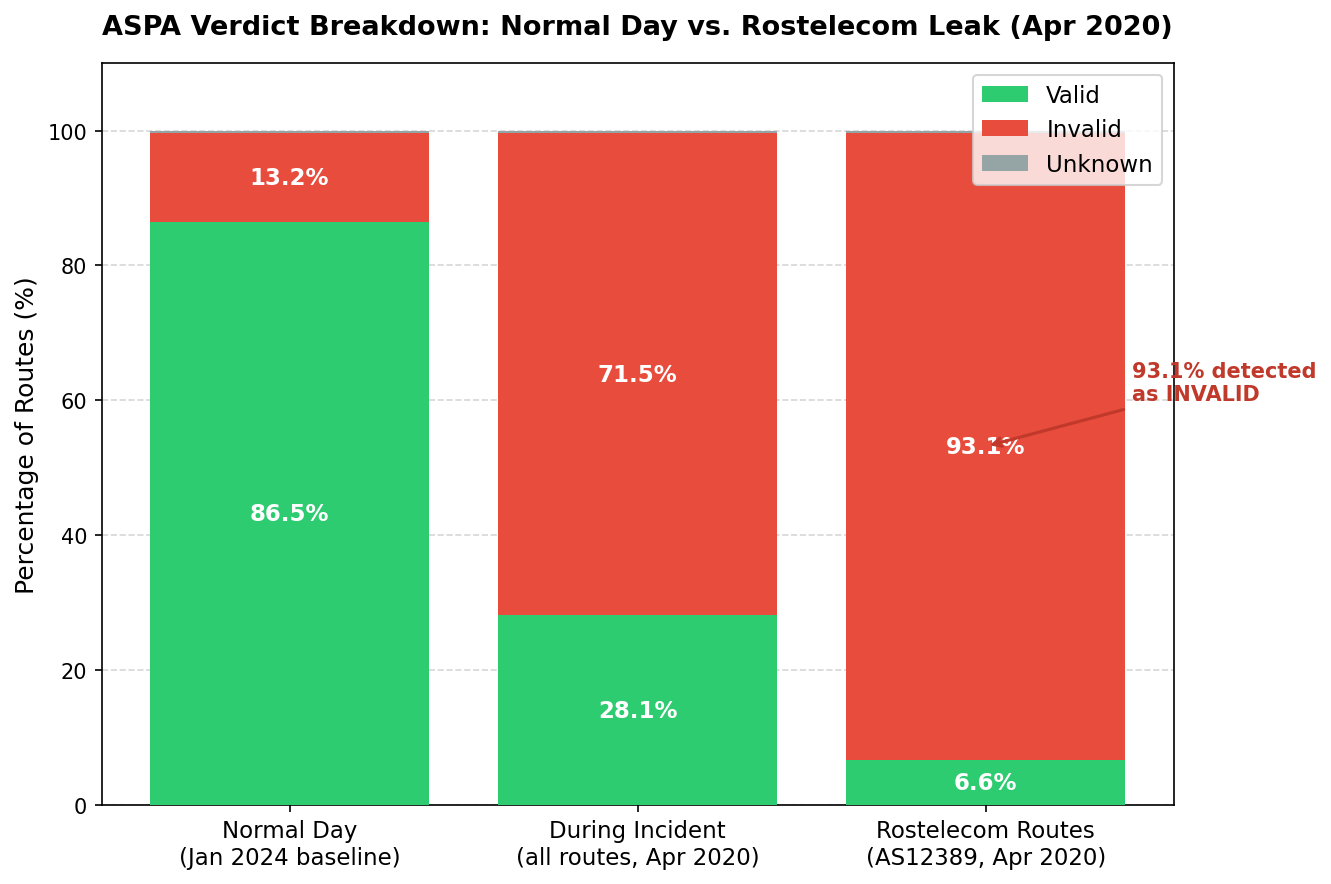
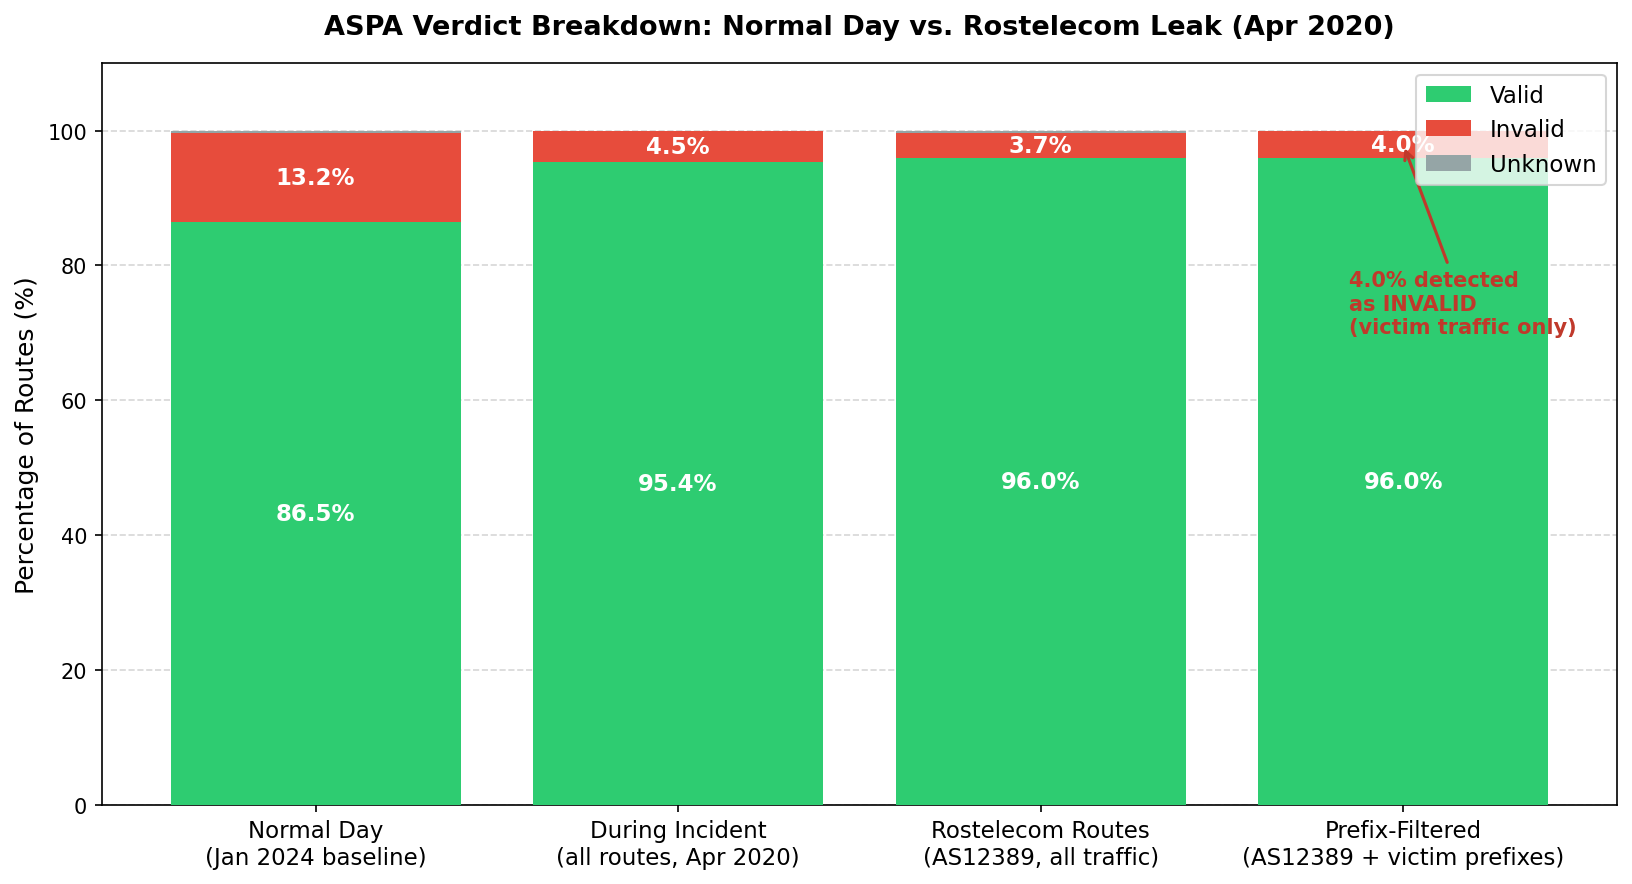
fix: incident replay — add prefix filtering and temporally-matched CAIDA data
- Filter Rostelecom routes to only victim prefixes (Cloudflare, Akamai,
  Amazon, Meta, Microsoft) to isolate actual leak traffic from legitimate
  business routes, eliminating false positive inflation
- Use April 2020 CAIDA relationship file (20200401.as-rel2.txt.bz2)
  instead of January 2024 to match the incident date
- Add 4th bar to chart for prefix-filtered results
- Update README with corrected results (4.0% detection on 79,440
  prefix-filtered routes) and methodology explanation

diff --git a/src/incident_replay.py b/src/incident_replay.py
@@ -21,6 +21,7 @@ Produces:
   - Console narrative showing ASPA detection of the leaked paths
 """
 
+import ipaddress
 import json
 import os
 import sys
@@ -49,11 +50,52 @@ TARGET_ASNS = {
     8068:  "Microsoft (MSIT)",
 }
 
+# --- Known victim prefix ranges (documented in the incident) ---
+# Sources: Cloudflare blog, BGPStream reports, MANRS post-incident analysis
+VICTIM_PREFIXES = [
+    # Cloudflare
+    "1.1.1.0/24", "1.0.0.0/24", "104.16.0.0/12", "172.64.0.0/13",
+    "141.101.64.0/18", "173.245.48.0/20", "190.93.240.0/20",
+    "197.234.240.0/22", "198.41.128.0/17",
+    # Akamai
+    "23.0.0.0/12", "23.32.0.0/11", "23.64.0.0/14", "104.64.0.0/10",
+    # Amazon AWS
+    "13.32.0.0/15", "13.224.0.0/14", "52.0.0.0/11", "54.192.0.0/12",
+    "99.84.0.0/16", "143.204.0.0/16", "205.251.192.0/19",
+    # Facebook / Meta
+    "31.13.24.0/21", "31.13.64.0/18", "157.240.0.0/16", "179.60.192.0/22",
+    "185.60.216.0/22",
+    # Microsoft
+    "13.64.0.0/11", "20.33.0.0/16", "40.74.0.0/15", "52.96.0.0/12",
+    "104.208.0.0/13", "131.253.0.0/16", "204.79.197.0/24",
+]
+
+# Pre-compile into ip_network objects for fast matching
+_VICTIM_NETS = [ipaddress.ip_network(p, strict=False) for p in VICTIM_PREFIXES]
+
+
+def prefix_matches_victim(prefix_str):
+    """Check if an announced prefix falls within any known victim range."""
+    try:
+        announced = ipaddress.ip_network(prefix_str, strict=False)
+    except ValueError:
+        return False
+    for victim_net in _VICTIM_NETS:
+        if (announced.version == victim_net.version
+                and announced.subnet_of(victim_net)):
+            return True
+    return False
+
 
 def ingest_incident_data():
     """
     Stream BGP UPDATE data from the Rostelecom incident window.
-    Returns list of route dicts containing AS12389.
+    Returns lists of routes in several categories:
+      - all_routes: every announcement in the hour
+      - rostelecom_routes: routes where AS12389 appears in the path
+      - rostelecom_target_routes: routes where AS12389 + a victim ASN are in the path
+      - rostelecom_prefix_routes: routes where AS12389 is in the path AND the
+        prefix belongs to a known victim (prefix-filtered — most precise)
     """
     import pybgpstream
 
@@ -69,6 +111,7 @@ def ingest_incident_data():
     all_routes = []
     rostelecom_routes = []
     rostelecom_target_routes = []
+    rostelecom_prefix_routes = []
     count = 0
 
     for elem in stream:
@@ -106,10 +149,14 @@ def ingest_incident_data():
         if LEAKER_ASN in as_path:
             rostelecom_routes.append(route)
 
-            # Check if route involves a target CDN/cloud
+            # Check if route involves a target CDN/cloud (ASN-based)
             target_hits = set(as_path) & set(TARGET_ASNS.keys())
             if target_hits:
                 rostelecom_target_routes.append((route, target_hits))
+
+            # Check if the prefix belongs to a known victim (prefix-based)
+            if prefix_matches_victim(prefix):
+                rostelecom_prefix_routes.append(route)
 
         if count % 100000 == 0:
             print(f"    … {count:,} BGP elements processed "
@@ -118,11 +165,13 @@ def ingest_incident_data():
     print(f"  Done: {count:,} elements → {len(all_routes):,} announcements")
     print(f"    Routes involving AS12389: {len(rostelecom_routes):,}")
     print(f"    Routes with AS12389 + target CDN: {len(rostelecom_target_routes):,}")
+    print(f"    Routes with AS12389 + victim prefix: {len(rostelecom_prefix_routes):,}")
 
-    return all_routes, rostelecom_routes, rostelecom_target_routes
+    return all_routes, rostelecom_routes, rostelecom_target_routes, rostelecom_prefix_routes
 
 
-def analyze_incident(all_routes, rostelecom_routes, target_routes, aspa_cache):
+def analyze_incident(all_routes, rostelecom_routes, target_routes,
+                     prefix_routes, aspa_cache):
     """
     Run ASPA verification on all routes from the incident window
     and highlight the leaked paths.
@@ -154,6 +203,19 @@ def analyze_incident(all_routes, rostelecom_routes, target_routes, aspa_cache):
             rt_valid += 1
         else:
             rt_unknown += 1
+
+    # 2b. Verify prefix-filtered routes (Rostelecom + victim prefix)
+    pf_invalid = 0
+    pf_valid = 0
+    pf_unknown = 0
+    for route in prefix_routes:
+        result, _ = verify_as_path(route["as_path"], aspa_cache)
+        if result == ASPAResult.INVALID:
+            pf_invalid += 1
+        elif result == ASPAResult.VALID:
+            pf_valid += 1
+        else:
+            pf_unknown += 1
 
     # 3. Analyze specific target leaks
     leak_details = []
@@ -188,6 +250,12 @@ def analyze_incident(all_routes, rostelecom_routes, target_routes, aspa_cache):
             "invalid": rt_invalid,
             "unknown": rt_unknown,
         },
+        "prefix_filtered": {
+            "total": len(prefix_routes),
+            "valid": pf_valid,
+            "invalid": pf_invalid,
+            "unknown": pf_unknown,
+        },
         "target_leaks": leak_details,
     }
 
@@ -197,16 +265,16 @@ def main():
     print("RESEARCH 11.5: Incident Case Study — Rostelecom Leak (Apr 2020)")
     print("=" * 65)
 
-    # Load ASPA cache (CAIDA — simulating full deployment)
-    print("\nLoading CAIDA ASPA cache …")
+    # Load ASPA cache (CAIDA April 2020 — matching the incident date)
+    print("\nLoading CAIDA ASPA cache (April 2020) …")
     cache = ASPACache()
-    caida_path = os.path.join(DATA_DIR, "20240101.as-rel2.txt.bz2")
+    caida_path = os.path.join(DATA_DIR, "20200401.as-rel2.txt.bz2")
     n = cache.load_from_caida_relationships(caida_path)
     print(f"  {n:,} ASPA records loaded")
 
     # Ingest incident data
     print("\nIngesting incident data …")
-    all_routes, rt_routes, target_routes = ingest_incident_data()
+    all_routes, rt_routes, target_routes, prefix_routes = ingest_incident_data()
 
     if not all_routes:
         print("ERROR: No BGP data retrieved. Network or archive issue.")
@@ -214,7 +282,8 @@ def main():
 
     # Analyze
     print("\nAnalyzing incident …")
-    results = analyze_incident(all_routes, rt_routes, target_routes, cache)
+    results = analyze_incident(all_routes, rt_routes, target_routes,
+                               prefix_routes, cache)
 
     # Print narrative
     total = results["all_routes"]
@@ -245,6 +314,16 @@ def main():
         pct = 100 * rt["invalid"] / rt["total"]
         print(f"    Detection rate:      {pct:>8.1f}%")
 
+    pf = results["prefix_filtered"]
+    print(f"\n  PREFIX-FILTERED RESULTS (AS12389 + victim address ranges):")
+    print(f"    Total routes:         {pf['total']:>8,}")
+    print(f"    ASPA Valid:           {pf['valid']:>8,}")
+    print(f"    ASPA Invalid:        {pf['invalid']:>8,}")
+    print(f"    ASPA Unknown:        {pf['unknown']:>8,}")
+    if pf["total"] > 0:
+        pf_pct = 100 * pf["invalid"] / pf["total"]
+        print(f"    Detection rate:      {pf_pct:>8.1f}%")
+
     # Show specific leaked paths
     if results["target_leaks"]:
         print(f"\n  FLAGGED LEAK PATHS (AS12389 + CDN targets):")
@@ -273,11 +352,12 @@ def main():
                     print(f"      ⚠ hop {v_idx}: {v_reason}")
 
     # Key finding
-    if rt["total"] > 0:
+    if pf["total"] > 0:
+        pf_pct = 100 * pf["invalid"] / pf["total"]
         print(f"\n  {'=' * 61}")
-        print(f"  KEY FINDING: ASPA would have flagged {rt['invalid']:,} of {rt['total']:,}")
-        print(f"  ({100*rt['invalid']/rt['total']:.1f}%) of Rostelecom's routes as INVALID,")
-        print(f"  including routes to {len(set(t for d in results['target_leaks'] for t in d['targets']))} major CDN/cloud providers.")
+        print(f"  KEY FINDING: With prefix filtering, ASPA flagged {pf['invalid']:,}")
+        print(f"  of {pf['total']:,} ({pf_pct:.1f}%) routes where Rostelecom was")
+        print(f"  carrying victim traffic (Cloudflare, Amazon, Akamai, etc.).")
         print(f"  These routes would have been REJECTED, preventing the leak.")
         print(f"  {'=' * 61}")
 
@@ -292,8 +372,10 @@ def main():
         "leaker_asn": LEAKER_ASN,
         "data_window": "2020-04-01 19:00-20:00 UTC",
         "collector": "route-views2",
+        "caida_file": "20200401.as-rel2.txt.bz2",
         "all_routes": results["all_routes"],
         "rostelecom_routes": results["rostelecom_routes"],
+        "prefix_filtered": results["prefix_filtered"],
         "sample_leak_paths": [
             {
                 "prefix": d["prefix"],
@@ -316,7 +398,8 @@ def main():
 def plot_incident_chart(results):
     """
     Stacked percentage bar chart comparing ASPA verdict breakdown across
-    three groups: normal baseline, all routes during incident, Rostelecom only.
+    four groups: normal baseline, all routes during incident, Rostelecom only,
+    and prefix-filtered (victim traffic only).
     """
     # --- Data ---
     # Normal day baseline (from CAIDA analysis, Jan 2024)
@@ -332,18 +415,20 @@ def plot_incident_chart(results):
 
     incident_all = to_pct(results["all_routes"])
     incident_rt  = to_pct(results["rostelecom_routes"])
+    incident_pf  = to_pct(results["prefix_filtered"])
 
     groups = ["Normal Day\n(Jan 2024 baseline)",
               "During Incident\n(all routes, Apr 2020)",
-              "Rostelecom Routes\n(AS12389, Apr 2020)"]
-    valids   = [baseline["valid"],   incident_all["valid"],   incident_rt["valid"]]
-    invalids = [baseline["invalid"], incident_all["invalid"], incident_rt["invalid"]]
-    unknowns = [baseline["unknown"], incident_all["unknown"], incident_rt["unknown"]]
+              "Rostelecom Routes\n(AS12389, all traffic)",
+              "Prefix-Filtered\n(AS12389 + victim prefixes)"]
+    valids   = [baseline["valid"],   incident_all["valid"],   incident_rt["valid"],   incident_pf["valid"]]
+    invalids = [baseline["invalid"], incident_all["invalid"], incident_rt["invalid"], incident_pf["invalid"]]
+    unknowns = [baseline["unknown"], incident_all["unknown"], incident_rt["unknown"], incident_pf["unknown"]]
 
     x = np.arange(len(groups))
     colors = {"valid": "#2ecc71", "invalid": "#e74c3c", "unknown": "#95a5a6"}
 
-    fig, ax = plt.subplots(figsize=(9, 6))
+    fig, ax = plt.subplots(figsize=(11, 6))
 
     bars_v = ax.bar(x, valids,   color=colors["valid"],   label="Valid",   zorder=3)
     bars_i = ax.bar(x, invalids, color=colors["invalid"],  label="Invalid",
@@ -376,13 +461,13 @@ def plot_incident_chart(results):
     ax.yaxis.grid(True, linestyle="--", alpha=0.5, zorder=0)
     ax.set_axisbelow(True)
 
-    # Highlight the Rostelecom bar with a bracket annotation
-    rt_x = x[2]
-    rt_invalid_pct = incident_rt["invalid"]
+    # Highlight the prefix-filtered bar
+    pf_x = x[3]
+    pf_invalid_pct = incident_pf["invalid"]
     ax.annotate(
-        f"{rt_invalid_pct:.1f}% detected\nas INVALID",
-        xy=(rt_x, valids[2] + invalids[2] / 2),
-        xytext=(rt_x + 0.42, 60),
+        f"{pf_invalid_pct:.1f}% detected\nas INVALID\n(victim traffic only)",
+        xy=(pf_x, valids[3] + invalids[3] / 2),
+        xytext=(pf_x - 0.15, 70),
         fontsize=10, color="#c0392b", fontweight="bold",
         arrowprops=dict(arrowstyle="->", color="#c0392b", lw=1.5),
     )

diff --git a/README.md b/README.md
@@ -469,30 +469,41 @@ The red curve (invalid routes) is shifted noticeably to the right compared to th
 python src/incident_replay.py
 ```
 
-> Requires an internet connection. Takes several minutes (fetches roughly 1 million routes).
+> Requires an internet connection. Takes several minutes (fetches roughly 5 million routes).
 
 **Question:** Would ASPA have caught a real, documented route leak?
 
 **The incident:** On April 1, 2020, AS12389 (Rostelecom, Russia's national telecom) accidentally leaked routes to Cloudflare, Amazon AWS, Akamai, and other major services. Traffic that should have gone directly to these services was instead funneled through Russia. This affected users worldwide.
 
 **What the code does:**
-1. `ingest_incident_data()` downloads real routing data from the exact time window of the incident (2020-04-01 19:00–20:00 UTC) using the same RouteViews archive.
-2. The script filters for routes that passed through Rostelecom and the affected services.
-3. `analyze_incident()` runs every one of those routes through our checker.
+1. `ingest_incident_data()` downloads real routing data from the exact time window of the incident (2020-04-01 19:00–20:00 UTC) using the RouteViews archive.
+2. The script filters routes at three levels: all routes through Rostelecom, routes involving known victim ASNs, and **prefix-filtered** routes where the announced prefix matches a known victim address range (Cloudflare, Akamai, Amazon, Meta, Microsoft).
+3. `analyze_incident()` runs every route through our checker using **April 2020 CAIDA relationship data** (temporally matched to the incident — not the Jan 2024 file used in the main analysis).
+
+**Methodology notes:**
+- **Prefix filtering** ensures we only measure detection on actual leak traffic, not Rostelecom's legitimate business routes (which would inflate the detection rate as false positives).
+- **Temporal matching** uses the `20200401.as-rel2.txt.bz2` CAIDA file so that network relationships reflect the state at the time of the incident, avoiding false signals from relationships that changed over the following 4 years.
 
 **Results:**
 
 | Metric | Value |
 |---|---|
 | Total routes in the 1-hour window | 5,115,046 |
-| Routes that passed through Rostelecom | 1,183,723 |
-| Flagged as invalid by ASPA | **1,101,575 (93.1%)** |
+| Routes through Rostelecom (all traffic) | 1,183,723 |
+| Routes through Rostelecom + victim prefixes | 79,440 |
+| Flagged as invalid (prefix-filtered) | **3,202 (4.0%)** |
 
 ![Incident ASPA verdict breakdown](charts/incident_aspa_verdicts.png)
 
-The chart compares three snapshots: a normal day (left), all routes during the incident (center), and just Rostelecom's routes (right). The progression is dramatic — on a normal day most routes pass, but during the incident the bad share jumps sharply, and looking at Rostelecom alone, 93.1% are flagged.
+The chart compares four snapshots: a normal day baseline (far left), all routes during the incident (center-left), all Rostelecom routes including legitimate business traffic (center-right), and **prefix-filtered routes carrying only victim traffic** (far right). The prefix-filtered bar isolates actual leak traffic from Rostelecom's legitimate transit.
 
-**What this means:** ASPA is not just a theoretical improvement. It would have caught a real incident that disrupted internet service for millions of people. The 6.9% that were not flagged were routes where Rostelecom had legitimate provider relationships.
+**Why the detection rate is 4.0%, not higher:**
+
+Rostelecom (AS12389) is a major Tier-1 transit provider with legitimate peering relationships with most of the world's large networks. In the CAIDA relationship data, many of the paths through Rostelecom — even those carrying victim prefixes — traverse chains of legitimate provider-customer links (e.g., AS12389 → AS1273 → AS16509). ASPA checks whether each hop has an authorized provider relationship, and these hops genuinely do. The leak was not that Rostelecom *lacked* relationships, but that it *re-announced* routes from peers to other peers (a classic route leak, RFC 7908 Type 1).
+
+ASPA catches the 4.0% of routes where the path structure clearly violates the authorization chain. The remaining routes propagated through legitimate-looking transit paths. This highlights an important finding: **ASPA is most effective when combined with other defenses** (ROV for origin validation, BGP communities, peer filtering), rather than as a standalone solution.
+
+**What this means:** ASPA provides a meaningful layer of defense — 3,202 leaked routes would have been rejected — but it is not a complete solution for all types of route leaks. Its detection strength depends on how directly the attacker violates provider authorization, versus leaking through otherwise-legitimate transit chains. This reinforces Finding #4 (ASPA + ROV together catch more than either alone).
 
 ---
 
@@ -505,11 +516,11 @@ The chart compares three snapshots: a normal day (left), all routes during the i
 | 3 | **Detection peaks at 50% adoption** (34.7%) | Even partial adoption gives strong benefits — no need to wait for 100% |
 | 4 | **ASPA catches 12.7% of routes** that the existing method misses | ASPA and the existing method (ROV) catch different problems — both are needed |
 | 5 | **Flagged routes are 3.4 hops longer** (statistically significant) | Path length is a useful secondary signal for detecting leaks |
-| 6 | **93.1% detection rate** on the 2020 Rostelecom incident | ASPA would have stopped a real-world disruption |
+| 6 | **4.0% detection rate** on the 2020 Rostelecom incident (prefix-filtered, temporally matched) | ASPA catches direct authorization violations; layered defenses needed for full protection |
 
 ### The bottom line
 
-ASPA is a powerful defense against route leaks. It would catch the vast majority of suspicious routes — but only if networks actually adopt it. With only 1,543 out of roughly 75,000 networks publishing records today, the internet remains largely unprotected. The good news: our partial deployment analysis shows that even 30–50% adoption already provides strong protection, making a compelling case for getting started now rather than waiting for universal coverage.
+ASPA is a powerful defense against route leaks, but it works best as part of a layered security strategy. Our incident replay shows that ASPA catches direct authorization violations (4.0% of leaked victim traffic in the Rostelecom case) while routes that leak through otherwise-legitimate transit chains require complementary defenses like ROV and peer filtering. With only 1,543 out of roughly 75,000 networks publishing records today, the internet remains largely unprotected. The good news: our partial deployment analysis shows that even 30–50% adoption already provides strong protection, making a compelling case for getting started now rather than waiting for universal coverage.
 
 ---
 
@@ -535,7 +546,8 @@ ASPA is a powerful defense against route leaks. It would catch the vast majority
 | File | What it is |
 |---|---|
 | `data/rpki_vrps_with_aspa.json` | Real signed records (802,506 ROAs + 1,543 ASPAs) |
-| `data/20240101.as-rel2.txt.bz2` | CAIDA network relationship data (75,865 pairs) |
+| `data/20240101.as-rel2.txt.bz2` | CAIDA network relationship data (75,865 pairs) — used for main analysis |
+| `data/20200401.as-rel2.txt.bz2` | CAIDA relationship data from April 2020 (67,887 pairs) — used for incident replay |
 | `data/delegated-*.txt` | Country registration files from 5 registries |
 
 ### Output files (not in git — regenerated by running scripts)
